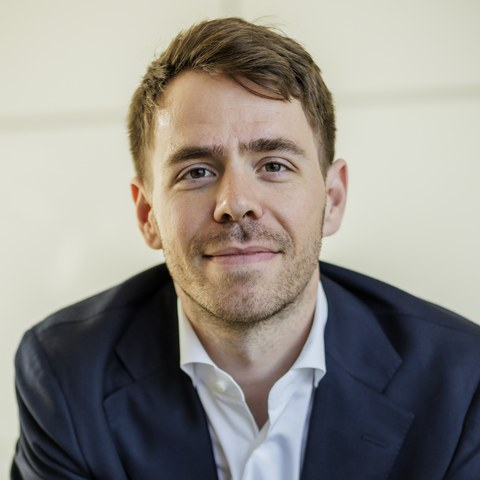
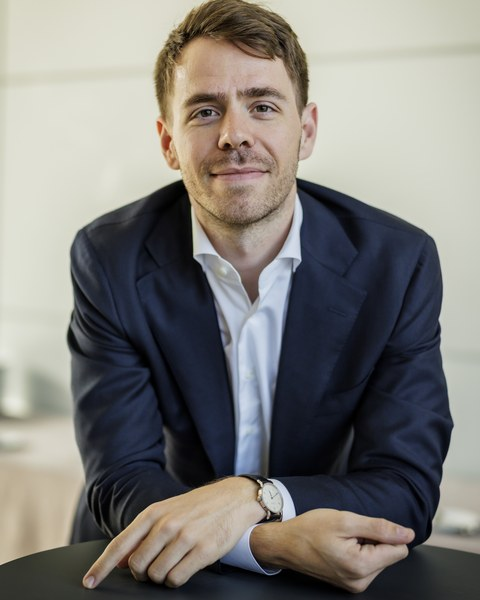
Photo fills the left column; name, nav, rule, and info sit to its right
Wider crop of the photo down to the hands, 4:5 portrait.

Claude-Session: https://claude.ai/code/session_01CQZzyPXpogZi6brqDa4q92

diff --git a/docs/index.html b/docs/index.html
@@ -50,8 +50,18 @@ a:active { opacity: 0.8; }
 }
 .name-wrapper { text-align: left; font-size: 0.8em; }
 .name-wrapper h1 { margin: 0; font-size: 2em; }
-.header-wrapper {
+.hero {
   margin-top: 18px;
+  margin-bottom: 10px;
+  max-width: 760px;
+  display: flex;
+  align-items: stretch;
+  gap: 24px;
+}
+.hero-photo { flex: 0 0 160px; }
+.hero-photo img { display: block; width: 100%; height: 100%; object-fit: cover; }
+.hero-text { flex: 1 1 auto; min-width: 0; }
+.header-wrapper {
   max-width: 760px;
   display: flex;
   justify-content: space-between;
@@ -68,26 +78,14 @@ a:active { opacity: 0.8; }
 .content-wrapper { width: 100%; max-width: 760px; box-sizing: border-box; margin: 0; }
 .content-wrapper a { cursor: pointer; }
 .info-section {
-  position: relative;
   display: flex;
   flex-direction: column;
   gap: 0;
-  margin-bottom: 6px;
-  padding-left: 160px;
+  margin-bottom: 0;
   font-size: 1em;
 }
-.info-photo {
-  position: absolute;
-  top: 0; left: 0; bottom: 0;
-  aspect-ratio: 1 / 1;
-  height: auto;
-}
-.info-photo img {
-  display: block;
-  width: 100%; height: 100%;
-  object-fit: cover;
-}
 .info-item { margin-bottom: 4px; }
+.info-item:last-child { margin-bottom: 0; }
 .info-item .label { color: #CC8855; font-weight: bold; margin-right: 6px; }
 .section-header {
   display: block;
@@ -134,8 +132,9 @@ a:active { opacity: 0.8; }
   .nav-wrapper { text-align: left; }
   .nav-wrapper ul li { margin-left: 0; margin-right: 10px; margin-bottom: 4px; }
   .nav-wrapper ul li a, .nav-wrapper ul li span { font-size: 0.85em; }
-  .info-section { flex-direction: column; gap: 0; font-size: 1em; padding-left: 0; }
-  .info-photo { position: static; order: -1; width: 110px; height: 110px; margin-bottom: 10px; }
+  .hero { flex-direction: column; gap: 10px; }
+  .hero-photo { flex: none; width: 120px; height: 150px; }
+  .info-section { flex-direction: column; gap: 0; font-size: 1em; }
   .section-header { margin-top: 22px; font-size: 0.9em; }
   .paper-list li { margin-bottom: 8px; padding-left: 1em; text-indent: -1em; }
   .paper-date, .paper-coauthors, .paper-links, .paper-media { display: none; }
@@ -174,6 +173,11 @@ a:active { opacity: 0.8; }
   <div class='spacing-box'></div>
   <div class='main-wrapper'>
 
+    <!-- Photo (left) + name, nav, and info (right) -->
+    <div class='hero'>
+      <div class='hero-photo'><img src="./photo.jpg" alt="Fabian Eckert"></div>
+      <div class='hero-text'>
+
     <!-- Header: name (left) + nav (right) -->
     <div class='header-wrapper'>
     <div class='name-wrapper'>
@@ -185,7 +189,7 @@ a:active { opacity: 0.8; }
 
         // Grab all visible block-level elements as whole units
         var wrapper = document.querySelector('.main-wrapper');
-        var els = wrapper.querySelectorAll('h1, li, .info-item, .section-header, .nav-wrapper ul');
+        var els = wrapper.querySelectorAll('h1, li, .info-item, .section-header, .nav-wrapper ul, .hero-photo');
         var viewH = window.innerHeight;
 
         els.forEach(function(el) {
@@ -234,20 +238,19 @@ a:active { opacity: 0.8; }
     </div>
     </div>
 
-    <!-- Main Content -->
-    <div class='content-wrapper'>
-
       <!-- Info -->
       <div class="info-section">
-        <div class="info-text">
         <div class="info-item">visiting assistant professor, <a target='_blank' href="https://siepr.stanford.edu/people/young-scholars">siepr</a>, <a target='_blank' href="https://www.stanford.edu/">stanford university</a> (ay 26/27)</div>
         <div class="info-item">assistant professor, <a target='_blank' href="https://economics.ucsd.edu/faculty-and-research/faculty-profiles/eckert.html">ucsd</a> <a target='_blank' href="https://economics.ucsd.edu">econ</a> (on leave)</div>
         <div class="info-item">associate editor, <a target='_blank' href="https://www.sciencedirect.com/journal/journal-of-international-economics">jie</a></div>
         <div class="info-item" style="margin-top: 0.5em; color: rgba(255,253,218,.5);">trade, economic geography, macroeconomics</div>
         <div class="info-item" style="color: rgba(255,253,218,.5);">fpe at ucsd dot edu</div>
-        </div>
-        <div class="info-photo"><img src="./photo.jpg" alt="Fabian Eckert"></div>
       </div>
+      </div>
+    </div>
+
+    <!-- Main Content -->
+    <div class='content-wrapper'>
 
       <!-- Under Revision -->
       <b class="section-header">under revision</b>

diff --git a/docs/style.css b/docs/style.css
@@ -66,8 +66,33 @@ a:active {
   font-size: 0.8em;
 }
 
-.header-wrapper {
+/* Hero: photo on the left, name + nav + info on the right */
+.hero {
   margin-top: 18px;
+  margin-bottom: 10px;
+  max-width: 760px;
+  display: flex;
+  align-items: stretch;
+  gap: 24px;
+}
+
+.hero-photo {
+  flex: 0 0 160px;
+}
+
+.hero-photo img {
+  display: block;
+  width: 100%;
+  height: 100%;
+  object-fit: cover;
+}
+
+.hero-text {
+  flex: 1 1 auto;
+  min-width: 0;
+}
+
+.header-wrapper {
   max-width: 760px;
   display: flex;
   justify-content: space-between;
@@ -117,34 +142,19 @@ a:active {
 
 /* Info section: affiliation, interests, contact in a compact row */
 .info-section {
-  position: relative;
   display: flex;
   flex-direction: column;
   gap: 0;
-  margin-bottom: 6px;
-  padding-left: 160px;
+  margin-bottom: 0;
   font-size: 1em;
-}
-
-/* Square photo, left of the info text, as tall as the text block */
-.info-photo {
-  position: absolute;
-  top: 0;
-  left: 0;
-  bottom: 0;
-  aspect-ratio: 1 / 1;
-  height: auto;
-}
-
-.info-photo img {
-  display: block;
-  width: 100%;
-  height: 100%;
-  object-fit: cover;
 }
 
 .info-item {
   margin-bottom: 4px;
+}
+
+.info-item:last-child {
+  margin-bottom: 0;
 }
 
 .info-item .label {
@@ -305,19 +315,21 @@ a:active {
     font-size: 0.85em;
   }
 
+  .hero {
+    flex-direction: column;
+    gap: 10px;
+  }
+
+  .hero-photo {
+    flex: none;
+    width: 120px;
+    height: 150px;
+  }
+
   .info-section {
     flex-direction: column;
     gap: 0;
     font-size: 0.85em;
-    padding-left: 0;
-  }
-
-  .info-photo {
-    position: static;
-    order: -1;
-    width: 110px;
-    height: 110px;
-    margin-bottom: 10px;
   }
 
   .section-header {
